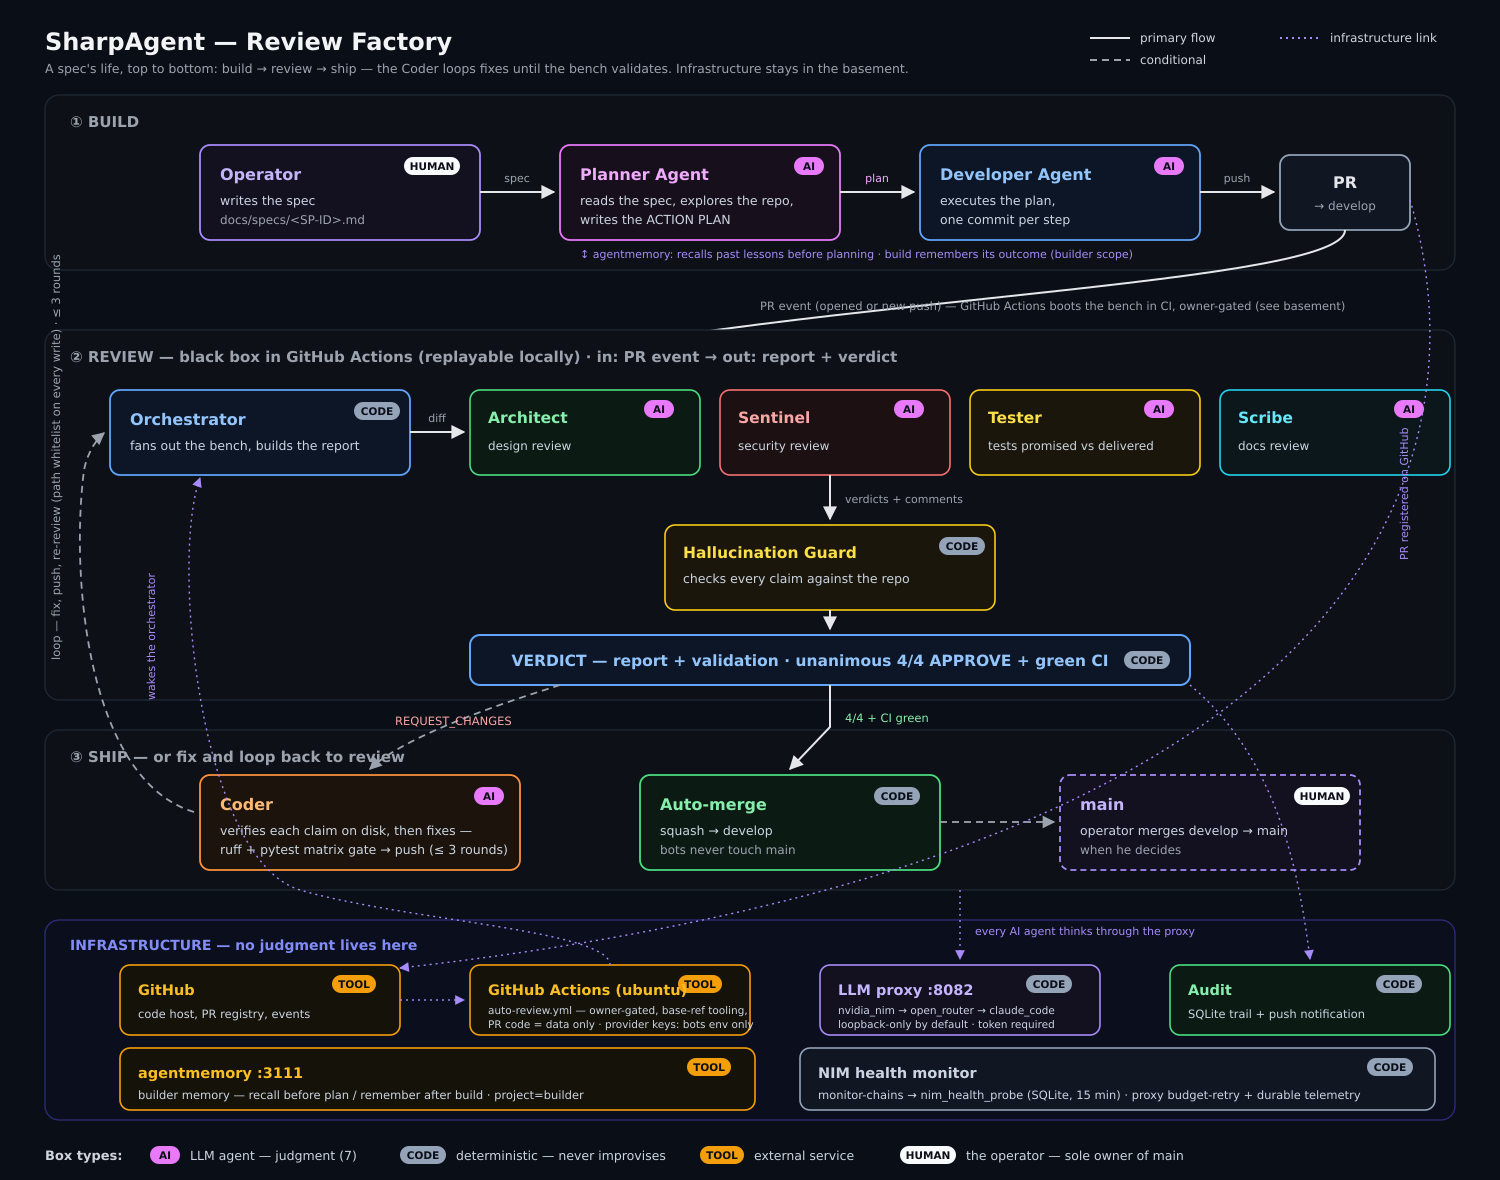
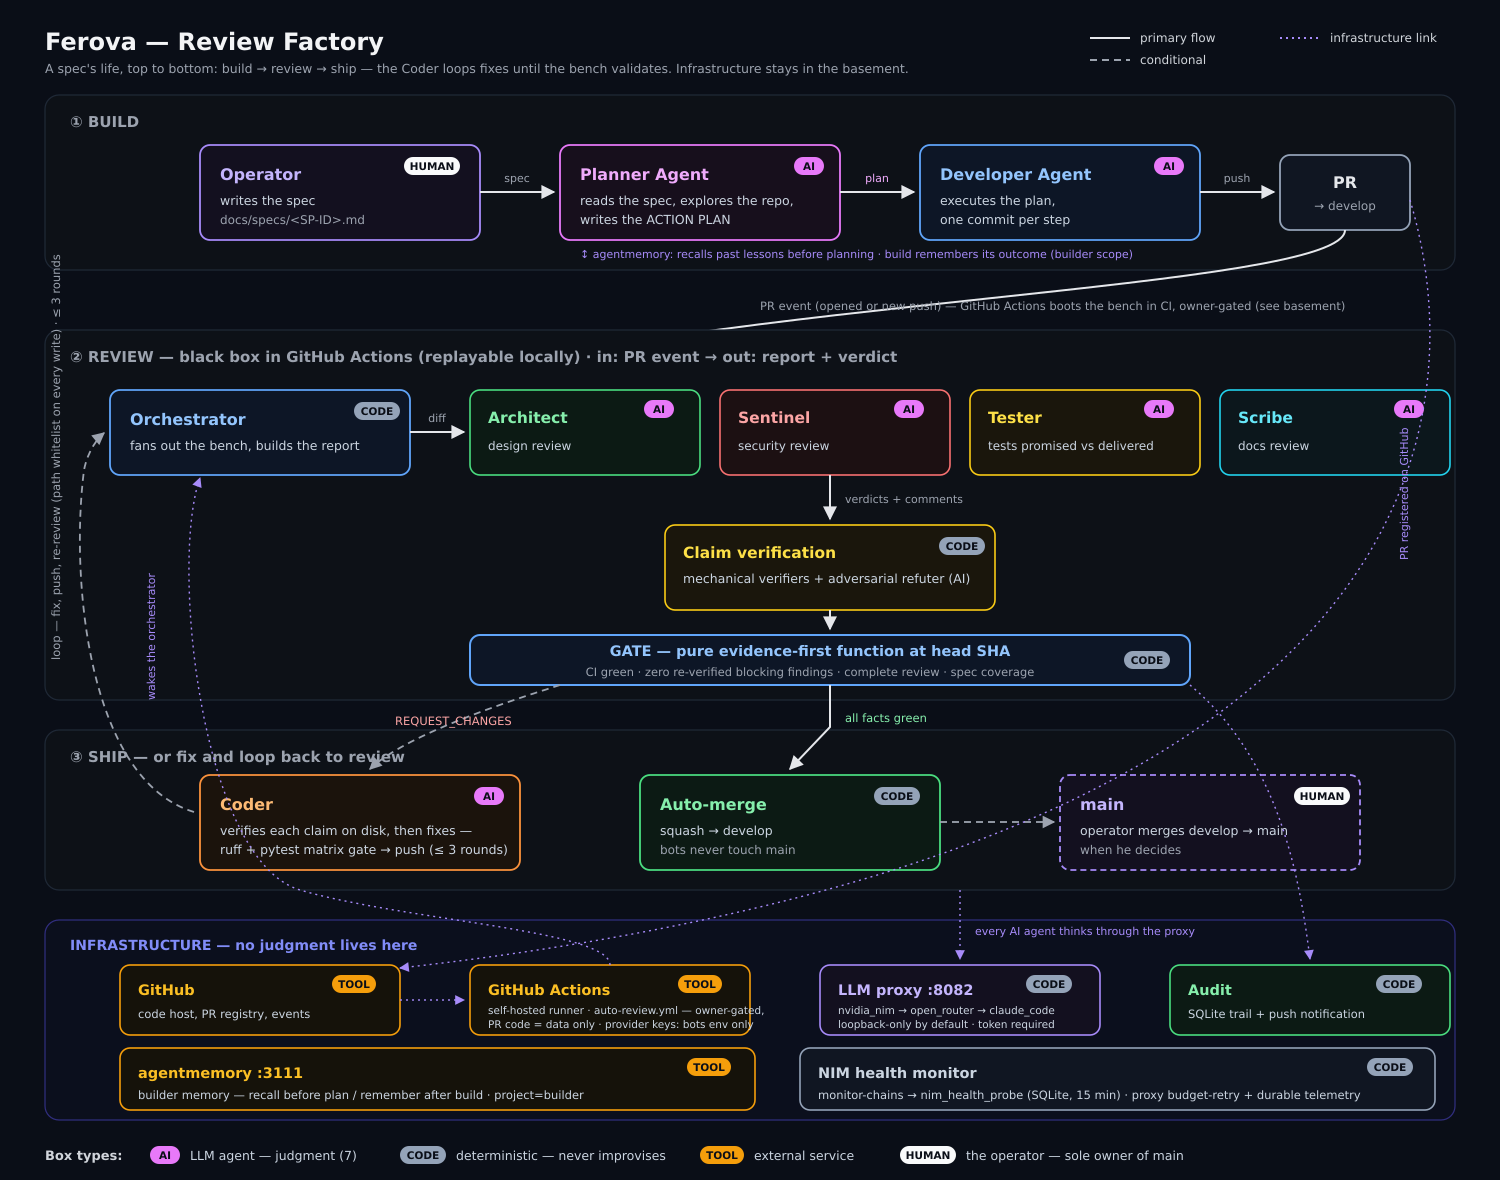
docs: refresh architecture figures, embed them in the README (#54)
* docs: refresh architecture figures and embed them in the README

Figures still carried the pre-rename SharpAgent branding and described
the retired merge gate. Corrected against current code:

- SharpAgent -> Ferova everywhere (titles, CLI names, systemd units)
- Review Factory: 'unanimous 4/4 APPROVE' verdict box replaced by the
  pure evidence-first gate (CI green at head, zero re-verified blocking
  findings, complete review, spec coverage); Hallucination Guard box
  now 'Claim verification' (mechanical verifiers + adversarial refuter)
- Review Redesign retitled 'evidence-first, implemented' (all 11 slices
  landed); runner is self-hosted, not ubuntu
- PNGs regenerated from the corrected SVGs (inkscape, 1500px)

README: embed the factory figure in 'How it works', add the three other
figures as collapsible deep dives, replace the nonexistent 'pipx run
ferova demo' quickstart with real commands, wire the live CI badge,
drop the dead post-mortem link placeholder.

* docs: original logo — anvil and spark, replaces the flame emoji

Mark: geometric anvil + ember spark at the strike point (every
verified finding is a hammer blow). assets/ ships three variants:
currentColor (tooling), dark-background, light-background. README
header swaps the emoji for a <picture> that follows the viewer's
color scheme.

diff --git a/README.md b/README.md
@@ -1,12 +1,17 @@
 <div align="center">
 
-# 🔥 Ferova
+<picture>
+  <source media="(prefers-color-scheme: dark)" srcset="assets/logo-dark.svg">
+  <img src="assets/logo-light.svg" alt="Ferova — anvil and spark" width="110">
+</picture>
+
+# Ferova
 
 ### The self-forging software factory.
 
 *Plug it into your repo — it builds your system, and keeps forging itself.*
 
-[![CI](https://img.shields.io/badge/CI-green-brightgreen)]() [![License](https://img.shields.io/badge/license-MIT-blue)]() [![Built by Ferova](https://img.shields.io/badge/built%20by-Ferova-orange)]()
+[![CI](https://github.com/ferovahq/ferova/actions/workflows/ci.yml/badge.svg?branch=develop)](https://github.com/ferovahq/ferova/actions/workflows/ci.yml) [![License](https://img.shields.io/badge/license-MIT-blue)]() [![Built by Ferova](https://img.shields.io/badge/built%20by-Ferova-orange)]()
 
 </div>
 
@@ -28,23 +33,46 @@ Every change is anchored to a spec whose frontmatter declares **what it owns** a
 
 ### 3. Self-evolving routing
 Ferova runs its agents across a dozen LLM providers with automatic failover. A built-in autopilot watches each provider's live health and **rewrites its own routing** to stay fast and cheap — bounded by hard safety caps.
-> *It once tried to delete its own routing in a single cycle. Here's the post-mortem →* [link]
 
 ### 🔁 It builds itself
 Ferova is built by Ferova. Every PR in this repo went through Ferova's own review pipeline and merge gate. **The factory is its own first customer.**
 
 ## How it works
 
-```
-spec ─▶ Developer agent ─▶ PR ─▶ Architect · Sentinel · Tester · Scribe ─▶ evidence-first gate ─▶ merge
-                                          (4 reviewers)                   (re-verifies at HEAD)
-```
+A spec's life, top to bottom: build → review → ship. Four reviewers and a claim-verification layer feed a findings ledger; a pure evidence-first gate re-verifies everything at the exact head it is about to merge.
+
+![Ferova — the review factory, from spec to merge](docs/review_factory_architecture.png)
+
+### Deeper dives
+
+<details>
+<summary><b>The review pipeline</b> — findings, mechanical verifiers, adversarial refuter, and the merge gate</summary>
+
+![Ferova — evidence-first review pipeline](docs/review_redesign_architecture.png)
+</details>
+
+<details>
+<summary><b>Builder memory</b> — the factory recalls past lessons before planning and remembers each build's outcome</summary>
+
+![Ferova — builder memory loop](docs/builder_memory_architecture.png)
+</details>
+
+<details>
+<summary><b>Provider observability</b> — active probes + passive telemetry around the self-healing LLM gateway</summary>
+
+![Ferova — NIM observability](docs/nim_observability_architecture.png)
+</details>
 
 ## Quickstart
 
 ```bash
-# zero-key demo against a sample repo — no provider keys required
-pipx run ferova demo
+git clone https://github.com/ferovahq/ferova && cd ferova
+pip install -e ".[dev]"
+
+ferova --help            # the CLI
+ferova review pr <N>     # run the review team on a pull request
+ferova review gate <N>   # evidence-first merge gate, read-only
+ferova develop <SP-ID>   # plan-driven build from a spec
 ```
 
 ## Safety
